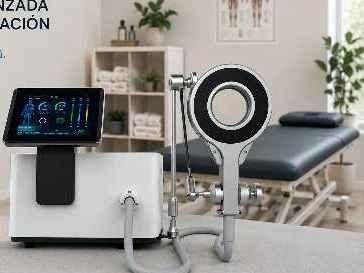
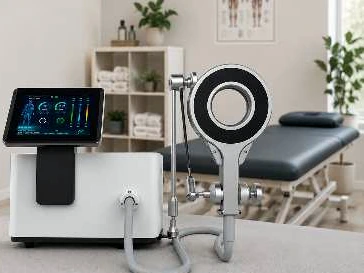
Revisión final: correcciones visuales en todos los anchos, accesibilidad, pruebas ampliadas y documentación
Claude-Session: https://claude.ai/code/session_012wfPg7hq749MEJrPm69dXB

Changed region(s): [[0.0, 0.0, 0.1511, 0.1172], [0.0, 0.1758, 0.0302, 0.2344]]

diff --git a/src/pages/og/[slug].jpg.ts b/src/pages/og/[slug].jpg.ts
@@ -12,7 +12,7 @@ export const getStaticPaths = (async () => {
     ['inicio', { kicker: 'VytalGroup', titulo: 'Equipos médicos de alta calidad. *Sin letra pequeña.*', sub: 'Ecógrafos, diatermias y equipamiento de fisioterapia. Te asesoran fisioterapeutas.', imagen: 'ecografo-portatil-acclarix-ax8-edan' }],
     ['ecografos', { kicker: 'Ecografía', titulo: eco.h1, sub: 'Inalámbricos, portátiles y de carro. 2 años de garantía.', imagen: eco.imagen }],
     ['diatermias', { kicker: 'Diatermia y tecarterapia', titulo: dia.h1, sub: 'Capacitiva, resistiva y bipolar. 2 años de garantía.', imagen: dia.imagen }],
-    ['equipos', { kicker: 'Equipos', titulo: 'Todo lo que tu clínica *necesita.*', sub: `${CATEGORIAS.length} categorías y ${PRODUCTOS.length} equipos del catálogo 2026, en un solo sitio.` }],
+    ['equipos', { kicker: 'Equipos', titulo: 'Todo lo que tu clínica *necesita.*', sub: `${CATEGORIAS.length} categorías y ${PRODUCTOS.filter((p) => !p.confirmar).length} equipos del catálogo 2026, en un solo sitio.` }],
     ['catalogo', { kicker: 'Catálogo 2026', titulo: 'El catálogo completo. *Sin dejar tus datos.*', sub: 'En la web y en PDF, con descarga directa.', imagen: 'fotos/catalogo-portada', foto: true }],
     ['sobre-nosotros', { kicker: 'Sobre nosotros', titulo: 'De fisio *a fisio.*', sub: 'Javier Ruiz, fisioterapeuta y fundador de VytalGroup.', imagen: 'fotos/javier-ruiz-fisioterapeuta', foto: true }],
     ['contacto', { kicker: 'Contacto', titulo: 'Cuéntanos qué *necesitas.*', sub: 'WhatsApp y teléfono +34 616 372 644 · vytalkinetech@gmail.com' }],

diff --git a/src/styles/contacto.css b/src/styles/contacto.css
@@ -3,7 +3,7 @@
    ========================================================================== */
 .cto { position: relative; padding: calc(var(--hd) + 20px) 0 var(--sec); background: radial-gradient(70% 40% at 50% 0%, rgba(72, 160, 168, .1), transparent 70%), var(--bg); }
 .cto .bc ol { justify-content: center; }
-.cto__head { max-width: 880px; margin: clamp(28px, 5vw, 56px) auto 0; text-align: center; }
+.cto__head { max-width: 1040px; margin: clamp(28px, 5vw, 56px) auto 0; text-align: center; }
 .cto__title { font-size: clamp(2.375rem, 1.7rem + 3.1vw, 4.5rem); }
 .cto__lead { max-width: 44ch; margin: 18px auto 0; }
 .cto__grid { display: grid; gap: 28px; max-width: 1060px; margin: clamp(28px, 4vw, 48px) auto 0; }
@@ -38,3 +38,9 @@
 .cto__who figcaption { display: grid; gap: 2px; font-size: .875rem; line-height: 1.35; color: var(--ink-3); }
 .cto__who strong { font-size: .9375rem; font-weight: 560; color: var(--ink); }
 @media (max-width: 899px) { .cto__who { justify-content: center; } }
+@media (max-width: 374px) {
+  .chan__card { grid-template-columns: 40px minmax(0, 1fr); gap: 12px; padding: 14px; }
+  .chan__ico { width: 40px; height: 40px; }
+  .chan__go { display: none; }
+  .chan__v { font-size: .9375rem; }
+}

diff --git a/src/styles/cards.css b/src/styles/cards.css
@@ -55,7 +55,7 @@
 .seg__btn { position: relative; z-index: 1; min-height: 44px; padding: 0 14px; border: 0; border-radius: 999px; background: none; color: var(--ink-2); font-size: .9375rem; font-weight: 500; letter-spacing: -.01em; white-space: nowrap; cursor: pointer; transition: color .25s ease; }
 .seg__btn[aria-selected="true"] { color: var(--ink); }
 .seg__btn:focus-visible { outline-offset: -2px; }
-@media (max-width: 374px) { .seg__btn { padding: 0 8px; font-size: .875rem; } }
+@media (max-width: 374px) { .seg__btn { padding: 0 8px; font-size: .875rem; } .seg--3 { grid-auto-columns: minmax(0, 1fr); } .seg--3 .seg__btn { padding: 0 4px; font-size: .8125rem; letter-spacing: -.02em; } }
 .panels { display: grid; }
 .panel { grid-area: 1 / 1; min-width: 0; opacity: 0; visibility: hidden; transform: translateY(14px); transition: opacity .3s ease, transform .5s var(--ease), visibility 0s linear .5s; }
 @media (min-width: 1024px) { .panel { transform: translateX(var(--off, -24px)); } }

diff --git a/src/styles/footer.css b/src/styles/footer.css
@@ -14,6 +14,9 @@
 .ft__h { margin-bottom: 8px; font-size: .75rem; font-weight: 560; letter-spacing: .12em; text-transform: uppercase; color: var(--teal-on-dark); }
 .ft__list { display: grid; justify-items: center; }
 .ft__list--2 { grid-template-columns: repeat(2, minmax(0, 1fr)); column-gap: 16px; }
+/* En móvil, las categorías con su nombre corto (el de los filtros del catálogo) para que no se partan */
+.ft__short { display: none; }
+@media (max-width: 639px) { .ft__full { display: none; } .ft__short { display: inline; } }
 .ft a, .ft button { display: inline-flex; align-items: center; gap: 10px; min-height: 44px; color: rgba(255, 255, 255, .86); text-decoration: none; background: none; border: 0; padding: 0; cursor: pointer; font-size: inherit; text-align: inherit; line-height: 1.3; }
 .ft__list .icon { width: 18px; height: 18px; color: var(--teal-on-dark); }
 .ft a:hover, .ft button:hover { color: #FFF; text-decoration: underline; text-underline-offset: 4px; }

diff --git a/src/styles/legal.css b/src/styles/legal.css
@@ -2,7 +2,7 @@
    Páginas legales (Aviso legal, Privacidad y Cookies). Mismo estilo que en la landing.
    ========================================================================== */
 .legal { padding: calc(var(--hd) + 20px) 0 0; }
-.wrap--legal { max-width: calc(760px + var(--g) * 2); padding-bottom: clamp(72px, 9vw, 128px); }
+.wrap.wrap--legal { max-width: calc(760px + var(--g) * 2); padding-bottom: clamp(72px, 9vw, 128px); }
 .legal__title { margin-top: clamp(28px, 5vw, 56px); font-size: clamp(2.25rem, 1.7rem + 2.4vw, 3.75rem); }
 .legal__lead { margin-top: 16px; font-size: clamp(1.0625rem, 1rem + .4vw, 1.25rem); line-height: 1.5; color: var(--ink-2); }
 .legal__body { margin-top: clamp(40px, 5vw, 64px); }

diff --git a/src/styles/catalogo.css b/src/styles/catalogo.css
@@ -80,3 +80,7 @@
 .cf__empty { display: grid; justify-items: center; gap: 8px; padding: 56px 20px; border-radius: var(--r-lg); background: var(--bg); text-align: center; box-shadow: inset 0 0 0 1px var(--line); }
 .cf__empty-t { font-size: 1.5rem; font-weight: 560; letter-spacing: -.02em; }
 .cf__empty-d { margin-bottom: 12px; color: var(--ink-2); }
+@media (max-width: 374px) {
+  .cf__sort .sel__btn { padding: 0 10px 0 12px; gap: 4px; }
+  .cf__sort .sel__btn > .icon:first-child { display: none; }
+}

diff --git a/src/styles/guia.css b/src/styles/guia.css
@@ -84,3 +84,7 @@
 /* Índice de guías */
 .gl__list { gap: 20px; }
 .gd-more { max-width: 820px; margin-inline: auto; }
+/* Sin índice lateral (móvil y tableta): la columna de lectura, centrada */
+@media (max-width: 1099px) {
+  .gd__toc, .prose, .gd__end, .gd__bio { width: 100%; max-width: 40rem; margin-inline: auto; }
+}

diff --git a/scripts/imagenes/build_productos.py b/scripts/imagenes/build_productos.py
@@ -268,10 +268,17 @@ save_png(stage(superinductiva(), box=(0.62, 0.84), area=0.3), 'magnetoterapia-su
 
 
 # ---------------------------------------------------------------- 4. Fotos de contexto (galería), con etalonaje suave
-def photo(name, im, crop=None, size=(960, 720)):
+def photo(name, im, crop=None, size=(960, 720), limpiar=()):
     im = im.convert('RGB')
     if crop:
         im = im.crop(crop)
+    # Restos de texto de la maqueta del catálogo sobre la foto: se rellenan con el fondo (inpainting)
+    if limpiar:
+        arr = np.array(im)
+        mask = np.zeros(arr.shape[:2], np.uint8)
+        for (x0, y0, x1, y1) in limpiar:
+            mask[y0:y1, x0:x1] = 255
+        im = Image.fromarray(cv2.inpaint(arr, mask, 6, cv2.INPAINT_TELEA))
     # Encaje 4:3 sin ampliar: se recorta al centro y se reduce solo si sobra resolución
     tw, th = size
     r = min(im.width / tw, im.height / th)
@@ -289,7 +296,7 @@ photo('diatermia-multifuncion-vytamed-en-consulta', src('i-004-016.jpg'))
 photo('diatermia-multifuncion-vytamed-pantalla', src('i-008-038.jpg'))
 photo('eco-wireless-vytamed-estuche', src('i-006-024.jpg'))
 photo('superinductiva-vytamed-en-consulta', src('i-005-017.jpg'), crop=(0, 100, 540, 505))
-photo('superinductiva-clinica-vytamed-en-consulta', src('i-007-031.jpg'), crop=(190, 0, 554, 369))
+photo('superinductiva-clinica-vytamed-en-consulta', src('i-007-031.jpg'), crop=(190, 0, 554, 369), limpiar=[(0, 44, 58, 90), (0, 92, 14, 116)])
 
 # Portada e interiores del catálogo para la maqueta 3D (renderizados con pdftoppm -r 110)
 for n, name in ((1, 'catalogo-portada'), (22, 'catalogo-interior-ecografia'), (8, 'catalogo-interior-diatermia')):

diff --git a/PLAN.md b/PLAN.md
@@ -78,19 +78,25 @@ Referencias: brief completo, landing publicada (https://vsl-vytalgroup.vercel.ap
 - [x] `sitemap.xml`
 
 ## 6. Revisión final (sección 16 del brief)
-- [ ] Coherencia con la landing (capturas lado a lado)
-- [ ] Capturas de página completa de cada plantilla en 12 anchos, revisadas una a una
-- [ ] Desbordes, solapes y scroll horizontal comprobados por código
-- [ ] Rastreo de enlaces (internos, anclas, PDF, WhatsApp, tel y mailto)
-- [ ] Catálogo: todos los productos, filtros, buscador, orden, URL, sin JS, descarga del PDF
-- [ ] Formulario y tracking con endpoint vacío y simulado, UTM entre páginas, doble clic, consentimiento, eventos
-- [ ] SEO: title y description únicos, un H1, canonical, OG, sitemap, robots, JSON-LD, noindex, alt, llms.txt
-- [ ] Contenido: sin rayas, sin veterinaria, sin datos inventados, ortografía, sin relleno
-- [ ] Lighthouse móvil ≥ 95 en las 4 categorías en todas las plantillas, CLS 0
-- [ ] Consola y CSP limpias, HTML válido, teclado, movimiento reducido, sin archivos muertos
-- [ ] Recorrido como fisioterapeuta que busca su primer ecógrafo
+- [x] Coherencia con la landing (capturas lado a lado)
+- [x] Capturas de página completa de cada plantilla en 12 anchos, revisadas una a una
+- [x] Desbordes, solapes y scroll horizontal comprobados por código
+- [x] Rastreo de enlaces (internos, anclas, PDF, WhatsApp, tel y mailto)
+- [x] Catálogo: todos los productos, filtros, buscador, orden, URL, sin JS, descarga del PDF
+- [x] Formulario y tracking con endpoint vacío y simulado, UTM entre páginas, doble clic, consentimiento, eventos
+- [x] SEO: title y description únicos, un H1, canonical, OG, sitemap, robots, JSON-LD, noindex, alt, llms.txt
+- [x] Contenido: sin rayas, sin veterinaria, sin datos inventados, ortografía, sin relleno
+- [x] Lighthouse móvil ≥ 95 en las 4 categorías en todas las plantillas, CLS 0
+- [x] Consola y CSP limpias, HTML válido, teclado, movimiento reducido, sin archivos muertos
+- [x] Recorrido como fisioterapeuta que busca su primer ecógrafo
 
 ## 7. Entrega
-- [ ] README (estructura, local, productos y guías, Google Sheets, píxel, despliegue, dominio, pendientes y decisiones)
+- [x] README (estructura, local, productos y guías, Google Sheets, píxel, despliegue, dominio, pendientes y decisiones)
 - [ ] Commit y push a `claude/eloquent-turing-1arlub`
 - [ ] Resumen final con Lighthouse por plantilla y lista de páginas
+
+## Registro de la revisión final
+- Capturas de página completa de las 14 plantillas en los 12 anchos (320 a 1920), revisadas una a una.
+- Corregido en la revisión: enlaces claros sobre fondo oscuro (hero y "Sin timos"), maqueta del catálogo que se salía en 1024, texto de CTA en la ficha, control segmentado de 3 opciones a 320, tarjetas huérfanas en categorías de 4 equipos y en el índice de equipos, ancho de lectura de legales y guías, email partido en contacto a 320, nombres del pie en móvil, foto con restos de texto del catálogo, cabecera de la tabla comparativa por debajo de AA, área táctil de la comparativa, clases duplicadas (.ct) entre contacto y la tabla comparativa.
+- Pruebas: SEO estático, HTML válido, Apps Script, formulario y píxel, interfaz y animaciones, accesibilidad (axe y contraste propio) y maquetación en 12 anchos. Lighthouse móvil 99 a 100 en todas las plantillas.
+

diff --git a/README.md b/README.md
@@ -3,7 +3,7 @@
 Web multipágina de VytalGroup: **equipos médicos de alta calidad, sin letra pequeña**. Astro con salida 100 % estática, JavaScript vanilla solo donde hace falta (formulario, filtros, menús, cookies y animaciones), mismo sistema de diseño que la landing de campañas (https://vsl-vytalgroup.vercel.app/) y preparada para publicarse en **https://vytalgroup.org**.
 
 - 67 páginas HTML: inicio, 2 páginas pilar (ecógrafos y diatermias), índice de equipos, 10 páginas de categoría, 42 fichas de producto, catálogo navegable, sobre nosotros, contacto, índice de guías y 3 guías, 3 legales y 404.
-- 53 productos del catálogo 2026 en un único origen de datos (`src/data/productos/`), de los que 42 tienen ficha propia.
+- 53 productos en un único origen de datos (`src/data/productos/`): los 48 del catálogo 2026 y 5 modelos EDAN pendientes de confirmar. 42 tienen ficha propia.
 - Formulario de 4 pasos idéntico al de la landing, conectado a la **misma hoja de Google Sheets** (columnas nuevas Origen y Página).
 - Meta Pixel condicionado al consentimiento de cookies, con los eventos del brief.
 - Imágenes OG de 1200 × 630 generadas en el build para cada página, categoría, ficha y guía.
@@ -211,9 +211,13 @@ Los UTM y el `fbclid` se guardan en la primera visita (`sessionStorage`) y viaja
 | `qa-apps-script` | El Apps Script real contra una hoja simulada: hoja nueva, hoja de la landing (columnas por título), origen por defecto, duplicados, campo trampa y validaciones |
 | `qa-form` | Formulario completo con UTM, preselección desde ficha y desde tarjeta sin ficha, validación, error del servidor, endpoint vacío, antispam (3 s y campo trampa), consentimiento y todos los eventos del píxel (Meta simulado, sin salir a internet) |
 | `qa-ui` | Cabecera y menús (ratón y teclado), catálogo (filtros, búsqueda, orden, URL, sin JavaScript), segmentado, acordeón, galería, guías (índice y progreso), teclado, movimiento reducido, CSP sin violaciones, 404 real y caché |
+| `qa-a11y` | axe-core (WCAG 2.2 AA y buenas prácticas) en las 67 páginas a 390 y 1440 px, más un cálculo de contraste propio donde axe no puede resolver el fondo (degradados y pseudoelementos) |
+| `html-validate` | HTML válido en todas las páginas (reglas en `.htmlvalidate.json`) |
 | `qa-layout` | 14 plantillas en los 12 anchos del brief (320 a 1920): sin scroll horizontal, sin elementos fuera de pantalla, sin textos cortados, botones en una línea, áreas táctiles de 44 px, H1 en la primera pantalla y sin errores de consola. Guarda capturas de página completa en `tests/output/screenshots/` |
 
 Se puede lanzar una sola: `node tests/run.mjs qa-form`.
+
+**Lighthouse móvil** (no entra en `npm test` porque necesita descargar Lighthouse): `npm install --no-save lighthouse@12 && npm run build && node tests/lighthouse.mjs`. Audita inicio, las dos páginas pilar, una ficha, una categoría, el catálogo, sobre nosotros, contacto y una guía con la configuración móvil por defecto (Moto G Power emulado, CPU ×4 y 4G lenta) y deja los informes en `tests/output/lighthouse/`.
 
 ---
 
